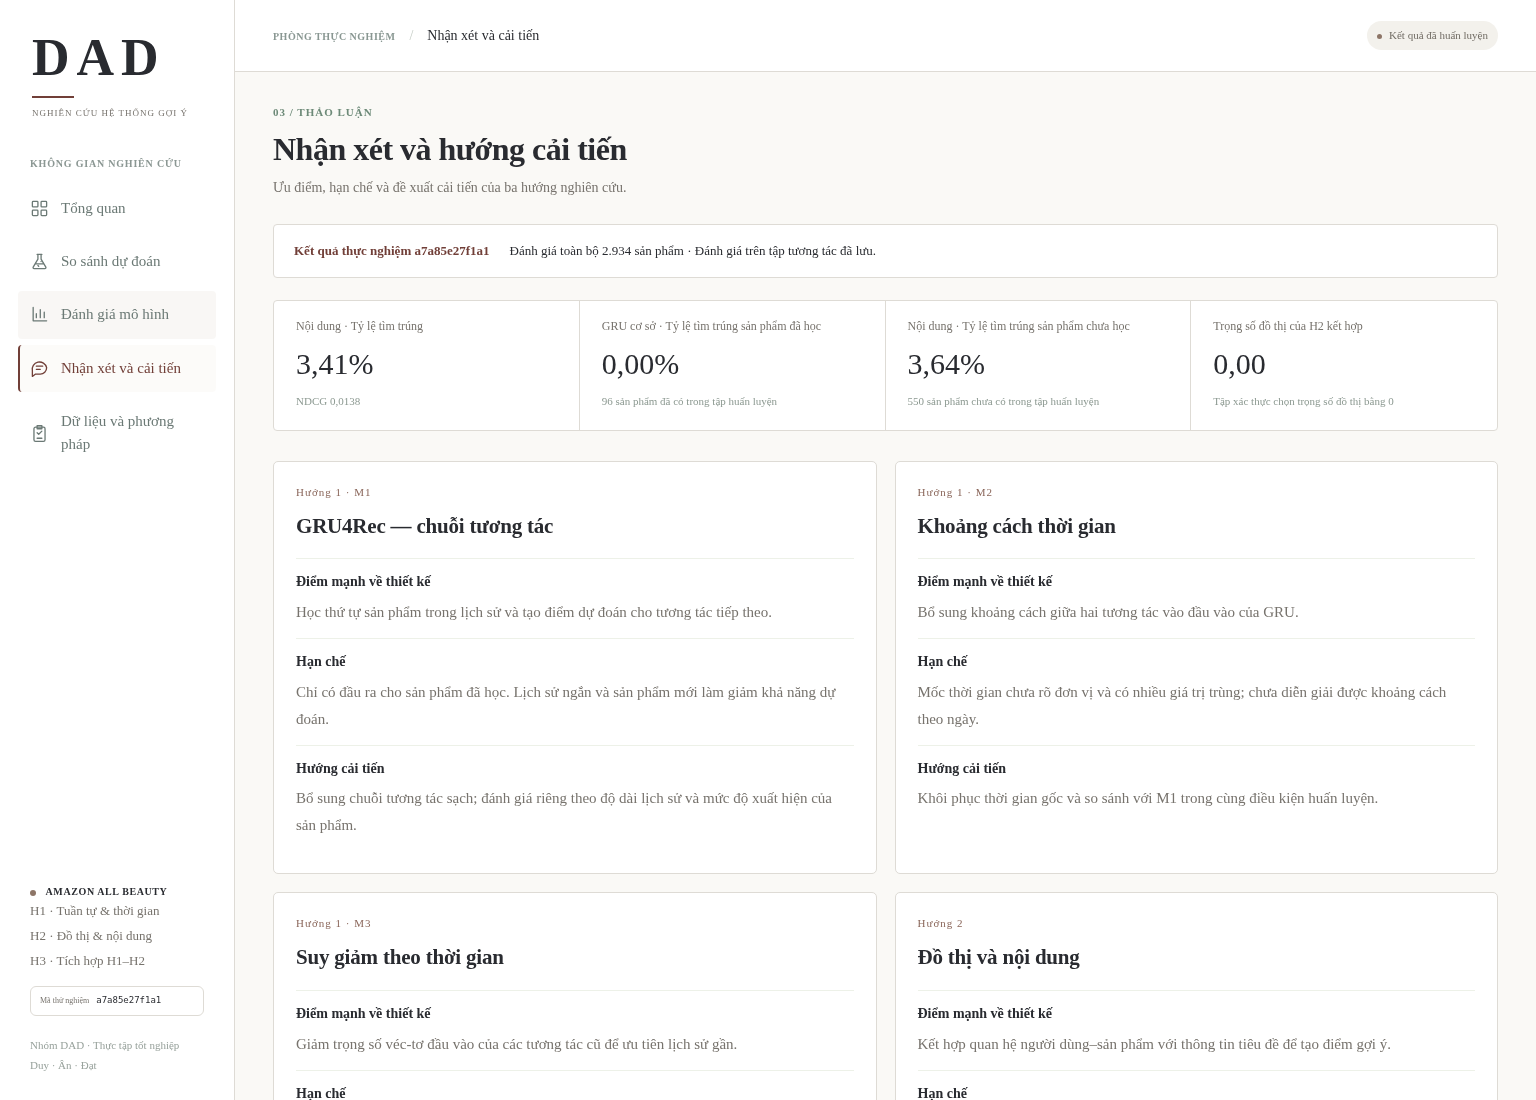
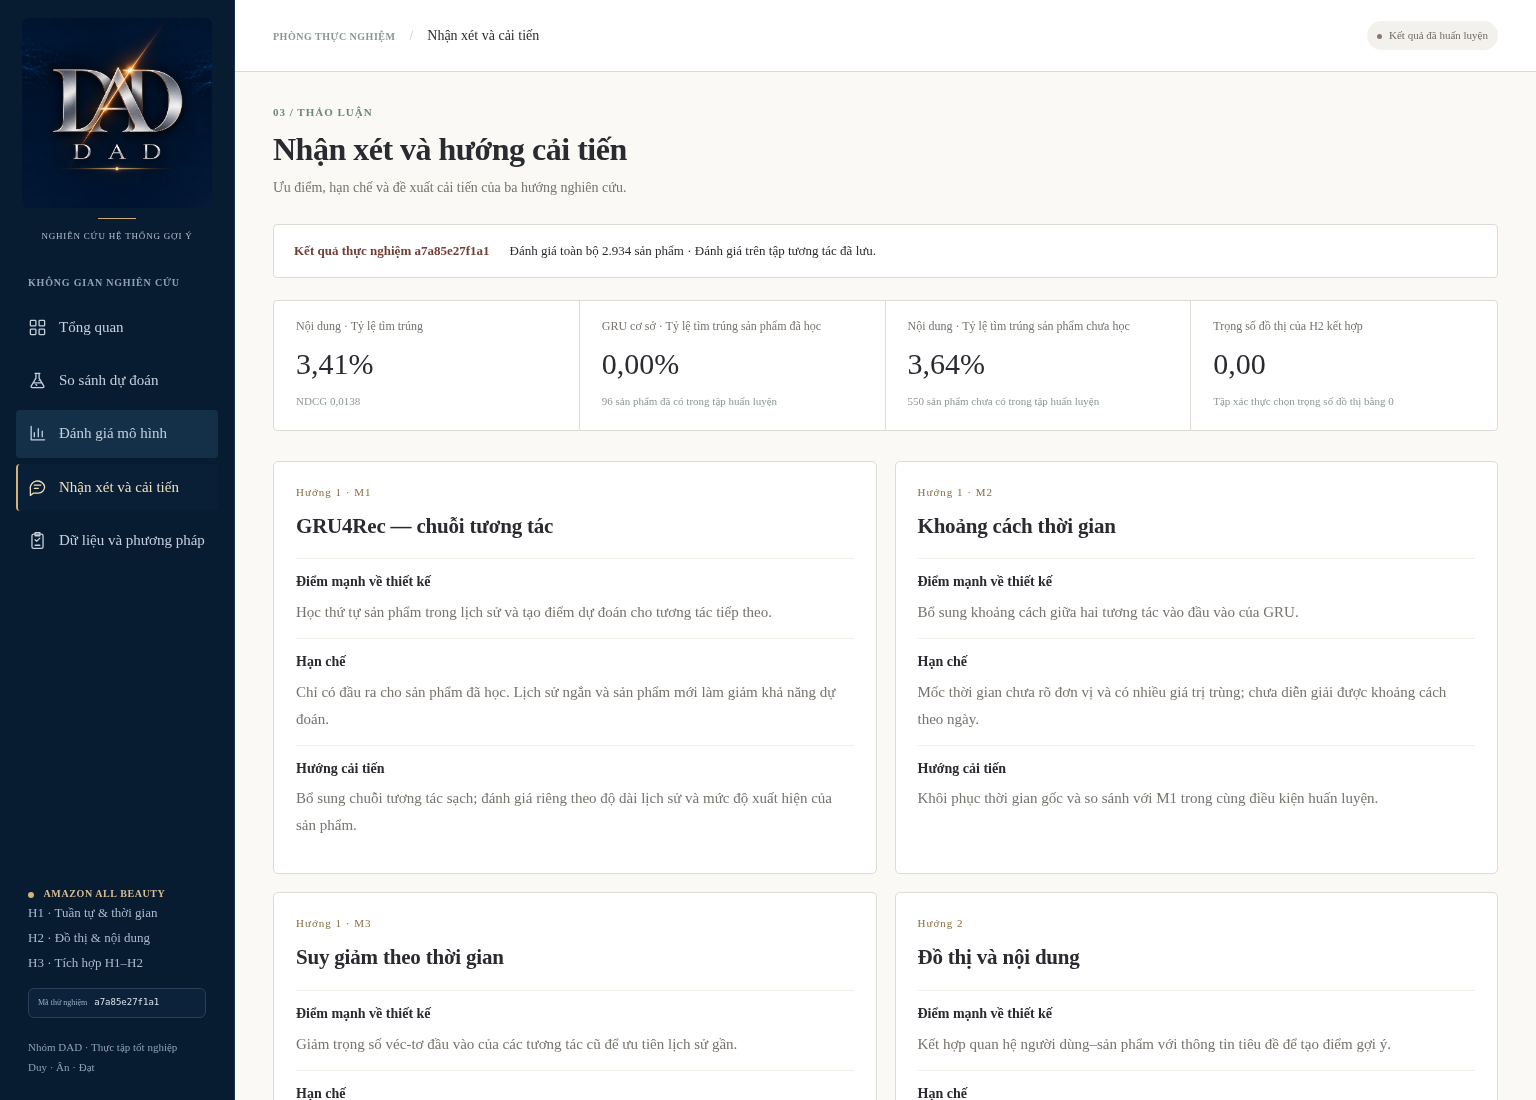
Apply metallic DAD branding with navy navigation and gold accents

Changed region(s): [[0.0, 0.0, 0.1562, 1.0]]

diff --git a/web/static/style.css b/web/static/style.css
@@ -2152,12 +2152,158 @@ select {
   }
 }
 
-.dad-logo { display: block; width: 165px; max-width: 100%; height: auto; }
+.dad-logo {
+  display: block;
+  width: 165px;
+  max-width: 100%;
+  height: auto;
+}
 
 /* Technology logo accent; the requested serif text is preserved. */
-:root{--green:#214c72}
-.dad-brand-rule{background:#287aff}
-.sidebar nav>a[aria-current=page]{background:#edf3f8;color:#214c72;border-left-color:#287aff}
-.inline-link,.btn-outline{color:#214c72}
-.model-option:has(input:checked){background:#edf3f8;border-color:#b8cddd;color:#214c72}
-.model-option input{accent-color:#214c72}
+:root {
+  --green: #214c72;
+}
+.dad-brand-rule {
+  background: #287aff;
+}
+.sidebar nav > a[aria-current="page"] {
+  background: #edf3f8;
+  color: #214c72;
+  border-left-color: #287aff;
+}
+.inline-link,
+.btn-outline {
+  color: #214c72;
+}
+.model-option:has(input:checked) {
+  background: #edf3f8;
+  border-color: #b8cddd;
+  color: #214c72;
+}
+.model-option input {
+  accent-color: #214c72;
+}
+
+/* Silver-and-gold DAD identity on a quiet navy navigation rail. */
+:root {
+  --green: #173650;
+}
+.sidebar {
+  background: #071b31;
+  border-right: 1px solid #17334d;
+  padding: 18px 16px 22px;
+  overflow-y: auto;
+  color: #dce5ed;
+}
+.dad-brand {
+  align-items: center;
+  padding: 0 3px 5px;
+  gap: 10px;
+}
+.dad-logo {
+  width: 190px;
+  height: 190px;
+  object-fit: contain;
+  border-radius: 7px;
+}
+.dad-brand-rule {
+  width: 38px;
+  background: #cfaa72;
+  height: 1px;
+  margin-top: 0;
+}
+.dad-brand-caption {
+  color: #b3c0cc;
+  text-align: center;
+  font-size: 9px;
+  letter-spacing: 0.8px;
+  line-height: 1.7;
+}
+.nav-label {
+  color: #8fa2b5;
+  margin-top: 26px;
+  font-size: 10px;
+}
+.sidebar nav > a {
+  color: #c4d0dc;
+  font-size: 15px;
+}
+.sidebar nav > a:hover {
+  background: #102b43;
+  color: #fff;
+}
+.sidebar nav > a[aria-current="page"] {
+  background: #17334c;
+  color: #f3dfbc;
+  border-left-color: #d5b17b;
+}
+.sidebar .nav-icon {
+  color: inherit;
+}
+.sidebar-bottom {
+  padding-top: 24px;
+}
+.sidebar-bottom .dataset-badge {
+  color: #d8bd94;
+}
+.sidebar-bottom .dot {
+  background: #d5b17b;
+}
+.sidebar-bottom p {
+  color: #aabbca;
+}
+.sidebar-bottom small {
+  color: #8da1b4;
+}
+.sidebar .run-chip {
+  border-color: #294057;
+  background: #0b223a;
+  color: #9aafc1;
+}
+.sidebar .run-chip code {
+  color: #d9e2ea;
+}
+.panel-index,
+.model-family {
+  color: #8a6d44;
+}
+.btn-outline,
+.inline-link {
+  color: #244d70;
+}
+.bar-fill {
+  background: #577a98;
+}
+.bar-fill.focus {
+  background: #bfa16d;
+}
+@media (max-width: 800px) {
+  .sidebar {
+    box-shadow: 15px 0 45px #071b312b;
+  }
+  .dad-logo {
+    width: 165px;
+    height: 165px;
+  }
+  .dad-brand-caption {
+    font-size: 8px;
+  }
+  .nav-label {
+    margin-top: 20px;
+  }
+}
+@media (max-height: 740px) and (min-width: 801px) {
+  .dad-logo {
+    width: 145px;
+    height: 145px;
+  }
+  .sidebar {
+    padding-top: 12px;
+  }
+  .nav-label {
+    margin-top: 20px;
+  }
+  .sidebar-bottom {
+    padding-top: 18px;
+  }
+}

diff --git a/web/index.html b/web/index.html
@@ -17,7 +17,15 @@
     <a class="skip" href="#main">Đến nội dung chính</a>
     <aside class="sidebar" id="sidebar">
       <a class="brand dad-brand" href="#overview" aria-label="DAD — Tổng quan">
-        <img class="dad-logo" src="/static/dad-logo.png?v=__ASSET_VERSION__" alt="Logo DAD" width="165" height="59" />
+        <img
+          class="dad-logo"
+          src="/static/dad-logo-metallic.png?v=__ASSET_VERSION__"
+          alt="Logo DAD ánh kim bạc trên nền xanh đậm"
+          width="190"
+          height="190"
+          decoding="async"
+          fetchpriority="low"
+        />
         <span class="dad-brand-rule"></span>
         <span class="dad-brand-caption">NGHIÊN CỨU HỆ THỐNG GỢI Ý</span>
       </a>

diff --git a/README.md b/README.md
@@ -67,3 +67,5 @@ API docs: `/api/docs`. Health check: `/healthz`. Web runtime đọc score bằng
 Giao diện hiện dùng Times New Roman (serif tương đương khi máy không có font), nhận diện chữ DAD và icon SVG nét đồng bộ. H3 có trong nhóm mô hình mặc định khi đối chiếu và bảng kết quả chính; trọng số/kết quả thực nghiệm giữ nguyên.
 
 Giao diện dùng tên chức năng tiếng Việt: So sánh dự đoán, Đánh giá mô hình, Nhận xét và cải tiến, Dữ liệu và phương pháp. Bảng kết quả hiển thị số người tìm trúng trên tổng số người dùng, tỷ lệ tìm trúng, điểm thứ hạng và độ phủ; khoảng tin cậy nằm trong phần chi tiết. Tên thuật toán chuẩn và tên sản phẩm trong dữ liệu gốc được giữ nguyên.
+
+Nhận diện hiện tại sử dụng logo DAD ánh kim bạc trên nền xanh đậm (`web/static/dad-logo-metallic.png`), thanh điều hướng xanh đậm và điểm nhấn vàng. Nội dung giữ Times New Roman; các chức năng và nhãn đánh giá sử dụng tiếng Việt.
